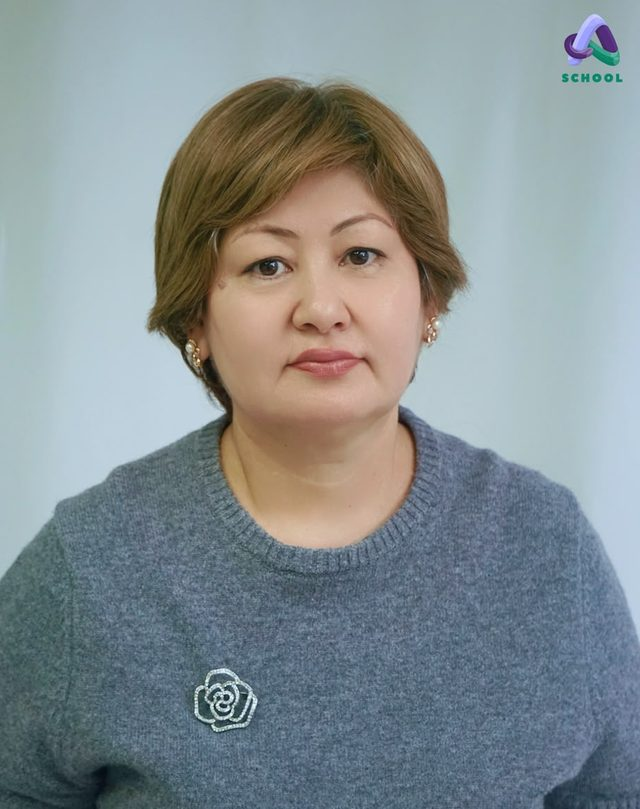
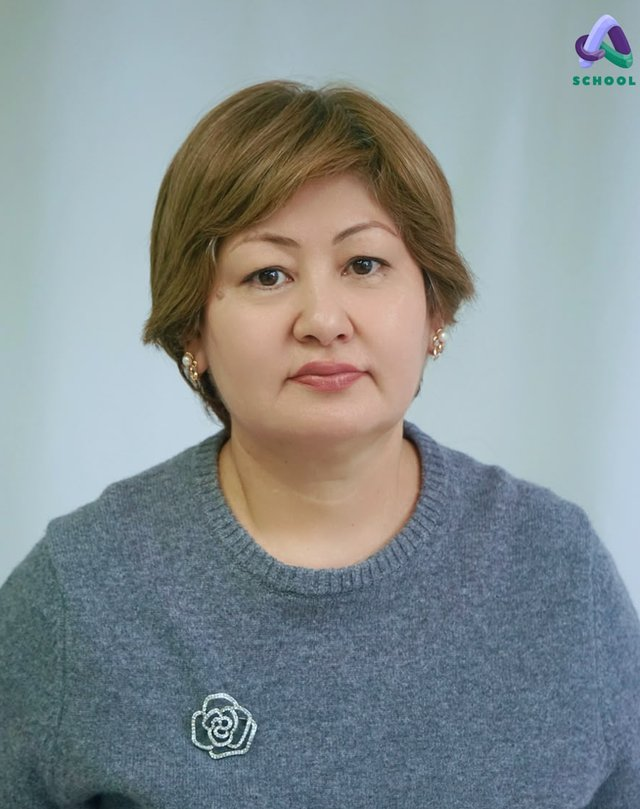
Фикс фото педагогов: портреты без растяжения (align-self), кадрирование по лицу, фото на страницах ПКШ/IELTS/английский/главная

diff --git a/kz/bagdarlamalar/ielts.html b/kz/bagdarlamalar/ielts.html
@@ -196,7 +196,7 @@
     <div class="sec-head"><h2>Курс <span class="hl">кураторы</span></h2></div>
     <div class="teacher-grid" style="margin:0;max-width:680px;">
       <article class="teacher-card">
-        <div class="arch-photo" data-photo-slot><div class="slot-inner"><span class="ms">&#xF0D3;</span></div></div>
+        <div class="arch-photo"><img src="../../assets/img/team/balabekova.jpg" alt="Gulden Balabekova — IELTS Academic курсының кураторы" width="640" height="809" loading="lazy"></div>
         <div class="teacher-bio"><h3>Gulden Balabekova</h3><div class="role">IELTS Academic курсының кураторы</div><p>«Болашақ» бағдарламасының түлегі, Дублин технологиялық институтының магистрі (Ирландия, DIT). 8 жылдан астам — Дублин университетінің Қазақстан, Ресей және Әзірбайжандағы өкілі. IDP IELTS Kazakhstan және BBC Learning English оқытуларына қатысушы. Оқыту тәжірибесі 7 жылдан асады.</p><div class="tag-row"><span class="tag--green">Болашақ · DIT</span><span class="tag--purple">7+ жыл тәжірибе</span></div></div>
       </article>
     </div>

diff --git a/kz/bagdarlamalar/agylshyn-balalarga.html b/kz/bagdarlamalar/agylshyn-balalarga.html
@@ -185,7 +185,7 @@
     <div class="sec-head"><h2>Курсты кім <span class="hl--green">жүргізеді</span></h2></div>
     <div class="teacher-grid" style="margin:0;max-width:640px;">
       <article class="teacher-card teacher-card--green">
-        <div class="arch-photo" data-photo-slot><div class="slot-inner"><span class="ms">&#xF0D3;</span></div></div>
+        <div class="arch-photo"><img src="../../assets/img/team/azhar.jpg" alt="Ажар Тарғынқызы — балаларға ағылшын мұғалімі" width="640" height="809" loading="lazy"></div>
         <div class="teacher-bio"><h3>Ажар Тарғынқызы</h3><div class="role">Ағылшын тілінің мұғалімі</div><p>Балаларға арналған мектеп ағылшын курсын сертификат бере отырып жүргізеді. Балаларды сенімді сөйлеуге және тілді жақсы көруге үйретеді.</p><div class="tag-row"><span class="tag--green">Балаларға ағылшын</span><span class="tag--purple">Сертификат</span></div></div>
       </article>
     </div>

diff --git a/kz/bagdarlamalar/mektepke-dayindyk.html b/kz/bagdarlamalar/mektepke-dayindyk.html
@@ -401,9 +401,7 @@
     <div class="teacher-grid" style="margin: 0; max-width: 640px;">
       <article class="teacher-card">
         <!-- Фото-ұясы: нақты педагог суретімен ауыстырыңыз -->
-        <div class="arch-photo" data-photo-slot>
-          <div class="slot-inner"><span class="ms">&#xF0D3;</span></div>
-        </div>
+        <div class="arch-photo"><img src="../../assets/img/team/orazova.jpg" alt="Айгүл Балауқызы — бағдарламаның жетекші педагогы" width="640" height="809" loading="lazy"></div>
         <div class="teacher-bio">
           <h3>Айгүл Балауовна</h3>
           <div class="role">Бағдарламаның жетекші педагогы</div>

diff --git a/programs/angliyskiy-detyam.html b/programs/angliyskiy-detyam.html
@@ -197,7 +197,7 @@
     <div class="sec-head"><h2>Кто ведёт <span class="hl--green">курс</span></h2></div>
     <div class="teacher-grid" style="margin:0;max-width:640px;">
       <article class="teacher-card teacher-card--green">
-        <div class="arch-photo" data-photo-slot><div class="slot-inner"><span class="ms">&#xF0D3;</span></div></div>
+        <div class="arch-photo"><img src="../assets/img/team/azhar.jpg" alt="Ажар Таргынкызы — преподаватель английского для детей" width="640" height="809" loading="lazy"></div>
         <div class="teacher-bio">
           <h3>Ажар Таргынкызы</h3>
           <div class="role">Преподаватель английского языка</div>

diff --git a/index.html b/index.html
@@ -448,9 +448,7 @@
       <!-- Реальный педагог: Айгуль Балауовна -->
       <article class="teacher-card">
         <!-- Фото-слот: заменить на реальное фото педагога -->
-        <div class="arch-photo" data-photo-slot>
-          <div class="slot-inner"><span class="ms">&#xF0D3;</span></div>
-        </div>
+        <div class="arch-photo"><img src="assets/img/team/orazova.jpg" alt="Айгуль Балауовна — педагог подготовки к школе" width="640" height="809" loading="lazy"></div>
         <div class="teacher-bio">
           <h3>Айгуль Балауовна</h3>
           <div class="role">Педагог подготовки к школе</div>

diff --git a/kz/index.html b/kz/index.html
@@ -440,9 +440,7 @@
       <!-- Нақты педагог: Айгүл Балауовна -->
       <article class="teacher-card">
         <!-- Фото-ұясы: нақты педагог суретімен ауыстырыңыз -->
-        <div class="arch-photo" data-photo-slot>
-          <div class="slot-inner"><span class="ms">&#xF0D3;</span></div>
-        </div>
+        <div class="arch-photo"><img src="../assets/img/team/orazova.jpg" alt="Айгүл Балауқызы — мектепке дайындық педагогы" width="640" height="809" loading="lazy"></div>
         <div class="teacher-bio">
           <h3>Айгүл Балауовна</h3>
           <div class="role">Мектепке дайындық педагогы</div>

diff --git a/programs/podgotovka-k-shkole.html b/programs/podgotovka-k-shkole.html
@@ -401,9 +401,7 @@
     <div class="teacher-grid" style="margin: 0; max-width: 640px;">
       <article class="teacher-card">
         <!-- Фото-слот: заменить на реальное фото педагога -->
-        <div class="arch-photo" data-photo-slot>
-          <div class="slot-inner"><span class="ms">&#xF0D3;</span></div>
-        </div>
+        <div class="arch-photo"><img src="../assets/img/team/orazova.jpg" alt="Айгуль Балауовна — ведущий педагог программы" width="640" height="809" loading="lazy"></div>
         <div class="teacher-bio">
           <h3>Айгуль Балауовна</h3>
           <div class="role">Ведущий педагог программы</div>

diff --git a/programs/ielts.html b/programs/ielts.html
@@ -206,7 +206,7 @@
     <div class="sec-head"><h2>Куратор <span class="hl">курса</span></h2></div>
     <div class="teacher-grid" style="margin:0;max-width:680px;">
       <article class="teacher-card">
-        <div class="arch-photo" data-photo-slot><div class="slot-inner"><span class="ms">&#xF0D3;</span></div></div>
+        <div class="arch-photo"><img src="../assets/img/team/balabekova.jpg" alt="Gulden Balabekova — куратор курса IELTS Academic" width="640" height="809" loading="lazy"></div>
         <div class="teacher-bio">
           <h3>Gulden Balabekova</h3>
           <div class="role">Куратор курса IELTS Academic</div>

diff --git a/assets/css/style.css b/assets/css/style.css
@@ -911,6 +911,7 @@ html:not(.icons-loaded) .nav-group > .nav-link::after { opacity: 0; }
   width: 128px;
   aspect-ratio: 4 / 5;
   flex-shrink: 0;
+  align-self: flex-start;
   box-shadow: none;
 }
 .teacher-card--green .arch-photo { background: linear-gradient(180deg, #fff, var(--mint-1)); }
